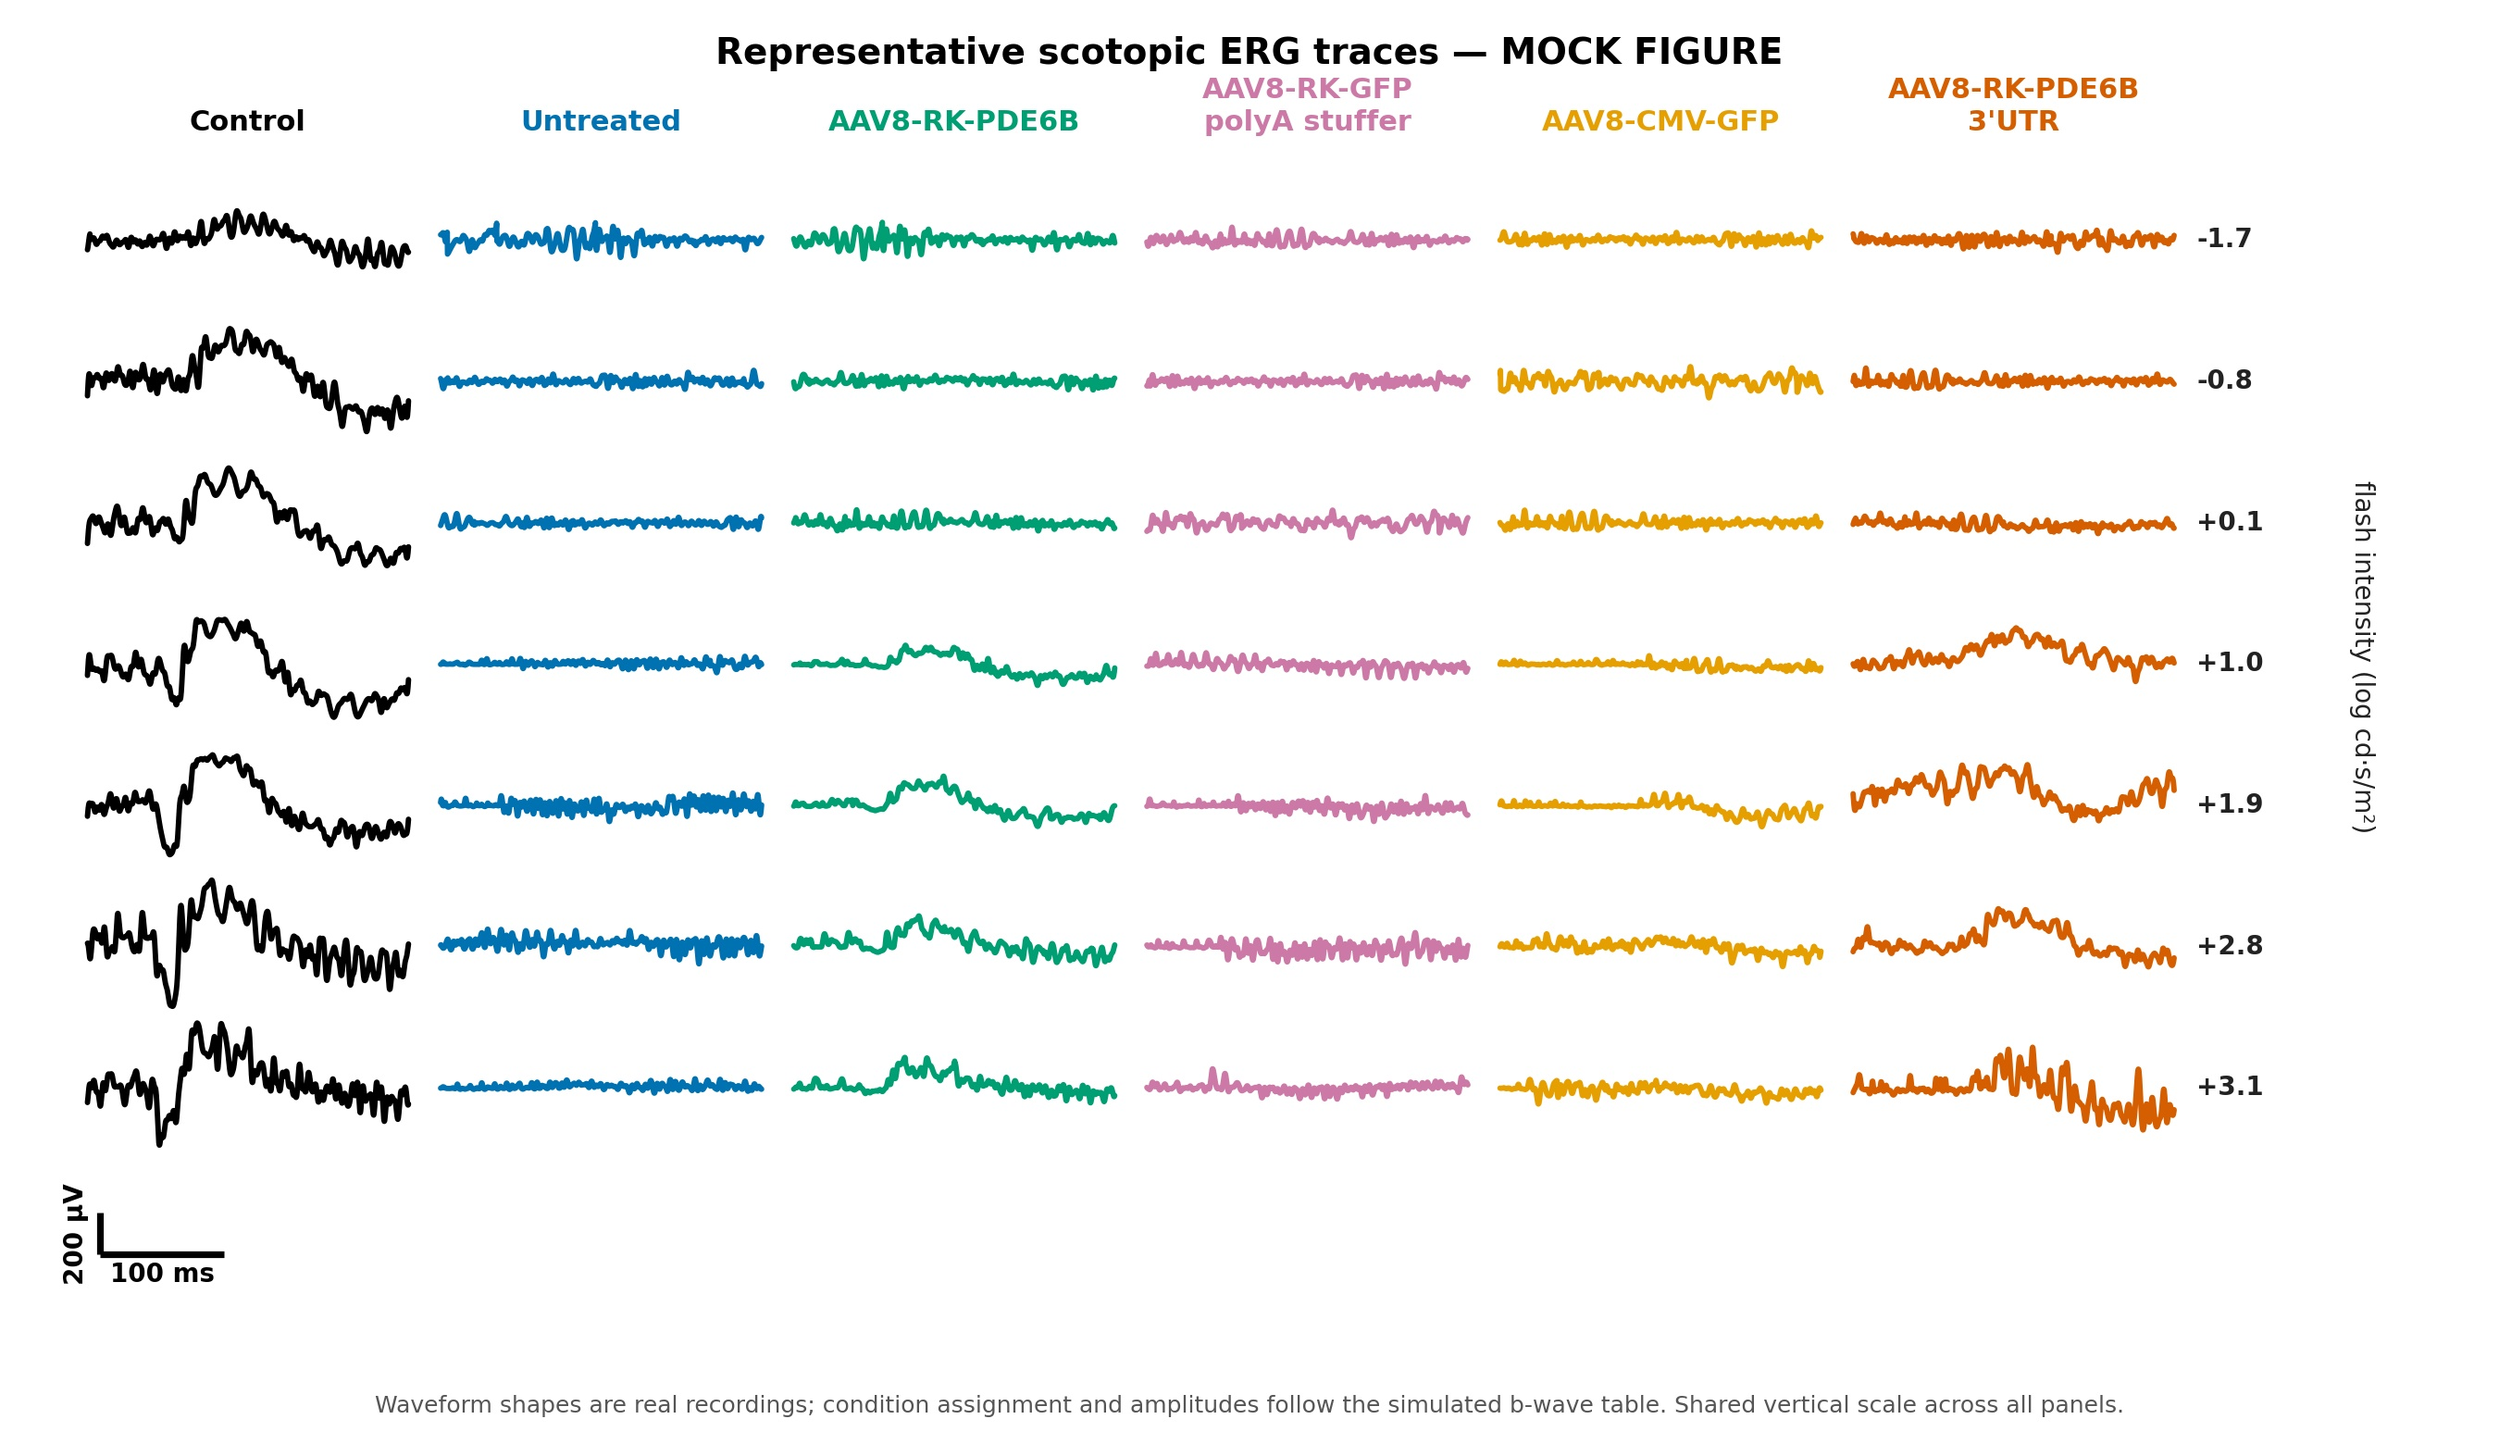
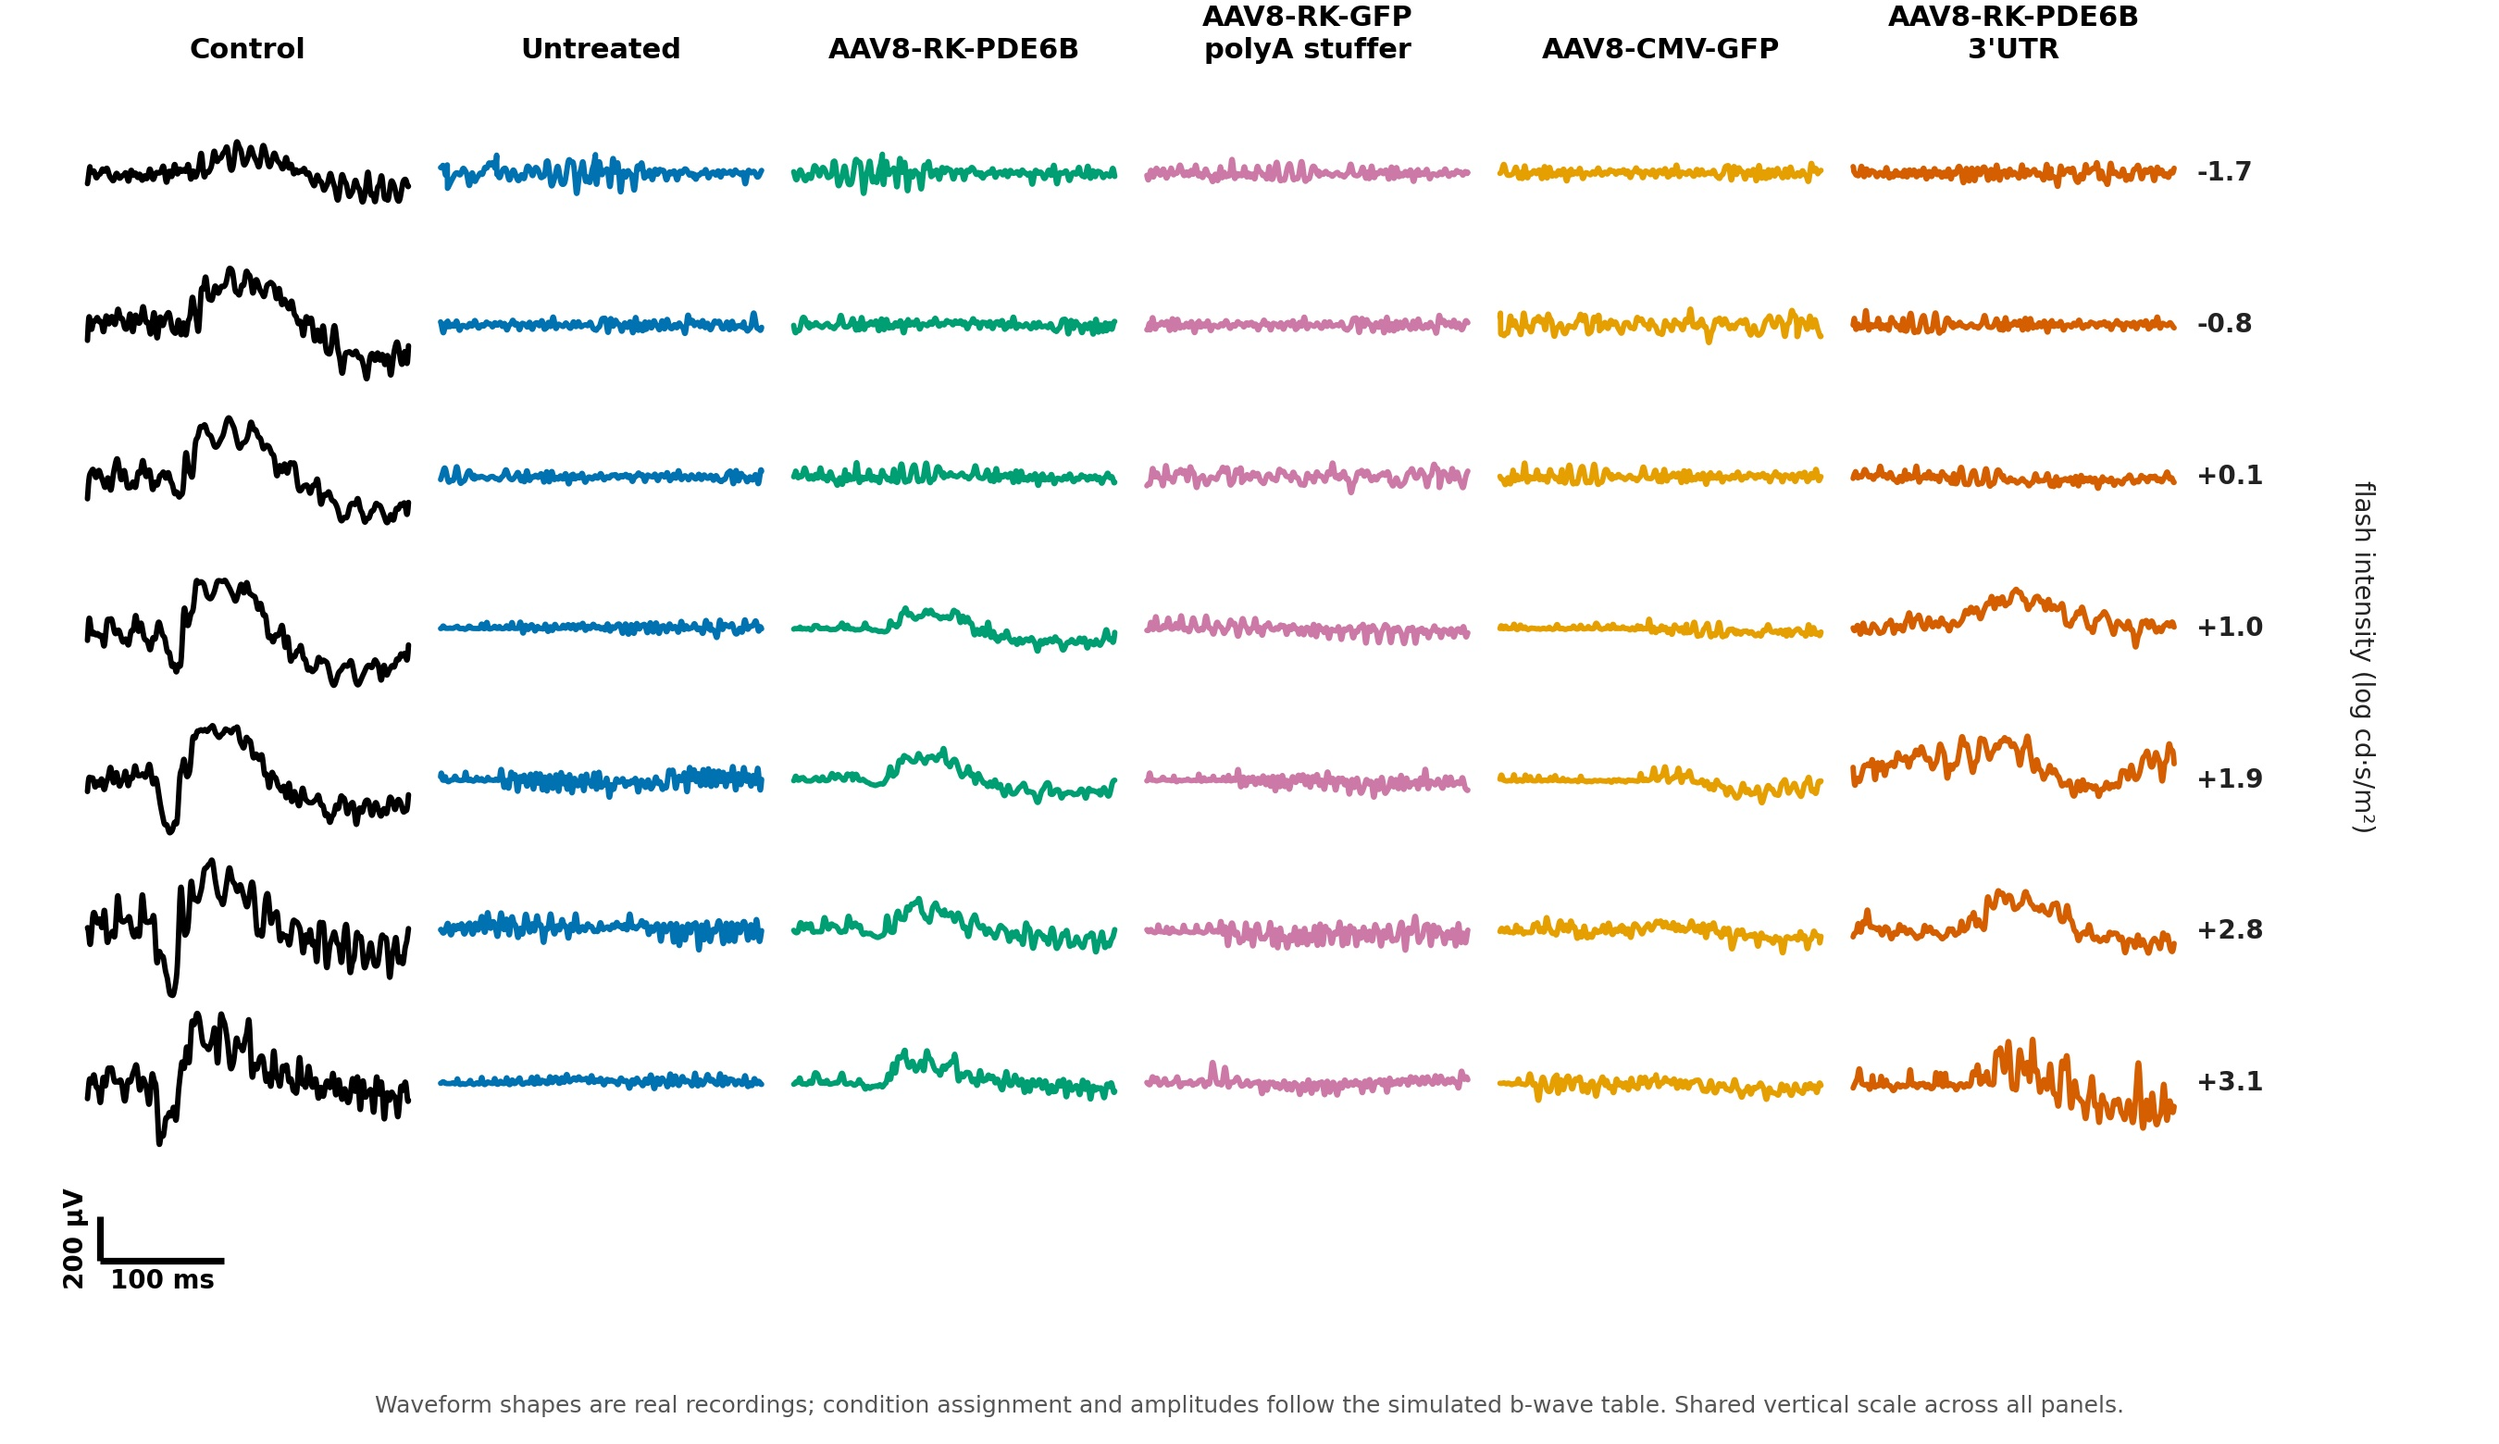
style(erg): drop the on-figure title, black condition headers
Owner-directed, both variants (they are two views of one figure and should match).

The panel gets laid out with its legend underneath, so a title on the artwork only
has to be cropped off later. Removing it also reclaims the strip it held --
top margin 0.885 -> 0.935, so the grid breathes instead of leaving a gap.

The MOCK provenance does NOT go with the title: the caption under the figure still
states the amplitudes are simulated, the module docstring opens with the warning
banner, and the README leads with it.

Condition headers go black; the traces already carry the colour coding, so tinting
the labels to match was redundant.

README styling section updated in step (line width, header colour, the missing
title, and why SCALEBAR_DROP only moves the scale bar rather than resizing it).

verify.sh 7/7; a-wave check unchanged (Control 0.27-0.98, rd10 arms at/under 0.18).

diff --git a/docs/records/erg-module/mock-fig1e/render_mock_fig1e_traces.py b/docs/records/erg-module/mock-fig1e/render_mock_fig1e_traces.py
@@ -92,6 +92,9 @@ ROW_GAP = 0.0
 COL_GAP = 0.10
 FIG_SIZE = (13.5, 7.8)
 HEADER_SIZE = 11
+#: Column headers are black rather than the trace colour: the traces themselves already carry
+#: the colour coding, so tinting the labels too was redundant (owner, 2026-08-03).
+HEADER_COLOR = "#000000"
 INTENSITY_SIZE = 10
 SCALEBAR_UV = 200
 SCALEBAR_MS = 100
@@ -286,7 +289,7 @@ def render(panels, out_path: Path, dpi: int) -> None:
     nrows, ncols = len(INTENSITIES_LOG), len(CONDITION_ORDER)
     fig, axes = plt.subplots(nrows, ncols, figsize=FIG_SIZE, dpi=dpi,
                              sharex=True, sharey=True)
-    fig.subplots_adjust(left=0.035, right=0.87, top=0.885, bottom=0.20,
+    fig.subplots_adjust(left=0.035, right=0.87, top=0.935, bottom=0.20,
                         hspace=ROW_GAP, wspace=COL_GAP)
 
     for ri, x_log in enumerate(INTENSITIES_LOG):
@@ -301,7 +304,7 @@ def render(panels, out_path: Path, dpi: int) -> None:
 
             if ri == 0:
                 ax.set_title(COL_LABELS[cond], fontsize=HEADER_SIZE, fontweight="bold",
-                             color=COLORS[cond], pad=14, linespacing=1.25)
+                             color=HEADER_COLOR, pad=14, linespacing=1.25)
             if ci == ncols - 1:
                 ax.text(1.07, baseline_frac, f"{x_log:+.1f}", transform=ax.transAxes,
                         fontsize=INTENSITY_SIZE, fontweight="bold", va="center",
@@ -330,8 +333,10 @@ def render(panels, out_path: Path, dpi: int) -> None:
     sb.text(x0 + SCALEBAR_MS / 2, y0 - 0.05 * (ylim[1] - ylim[0]), f"{SCALEBAR_MS} ms",
             va="top", ha="center", fontsize=INTENSITY_SIZE, fontweight="bold")
 
-    fig.suptitle("Representative scotopic ERG traces — MOCK FIGURE",
-                 fontsize=14, fontweight="bold", y=0.975)
+    # No on-figure title: this panel gets laid out with its legend underneath, so a title on
+    # the artwork only has to be cropped off later (owner, 2026-08-03). The MOCK provenance is
+    # NOT lost with it -- the caption below still states that the amplitudes are simulated, and
+    # the README carries the full warning.
     fig.text(0.5, 0.022,
              "Waveform shapes are real recordings; condition assignment and amplitudes follow "
              "the simulated b-wave table. Shared vertical scale across all panels.",

diff --git a/docs/records/erg-module/mock-fig1e/README.md b/docs/records/erg-module/mock-fig1e/README.md
@@ -245,10 +245,19 @@ Reworked because the first pass was hard to read:
   (`#9aa3ad`), so the partial-rescue arm — the one this figure is about — was the least
   visible thing on it. Palette is now Okabe-Ito, colourblind-safe, one distinct hue per
   condition.
-- **Thicker lines** (1.9 pt), so traces hold up when the figure is scaled down.
+- **Thicker lines** (2.1 pt), so traces hold up when the figure is scaled down.
 - **Rows packed tight** — panels touch, and the panel height was cut so the stacked traces sit
   as close as a shared vertical scale allows.
-- **Clearer labels** — condition headers bold and tinted to match their trace; intensity
-  labels aligned to each row's trace baseline rather than the panel centre.
+- **Clearer labels** — condition headers bold and **black**; intensity labels aligned to each
+  row's trace baseline rather than the panel centre. (The headers were tinted to match their
+  trace until 2026-08-03; the traces already carry the colour coding, so tinting the labels too
+  was redundant.)
+- **No on-figure title.** The panel is laid out with its legend underneath, so a title on the
+  artwork only has to be cropped off later (owner, 2026-08-03). The MOCK provenance does not go
+  with it: the caption under the figure still states that the amplitudes are simulated, and this
+  README carries the full warning.
 - **Scale bar moved out of the grid** into its own matched-scale axes below it; inside the
-  bottom-left panel the brightest Control a-wave ran straight through it.
+  bottom-left panel the brightest Control a-wave ran straight through it. It sits closer to the
+  grid than it first did (`SCALEBAR_DROP`) — its axes HEIGHT must stay equal to a panel's, since
+  that equality is what makes 200 µV render at exactly the panel scale, so only its position is
+  tunable.
